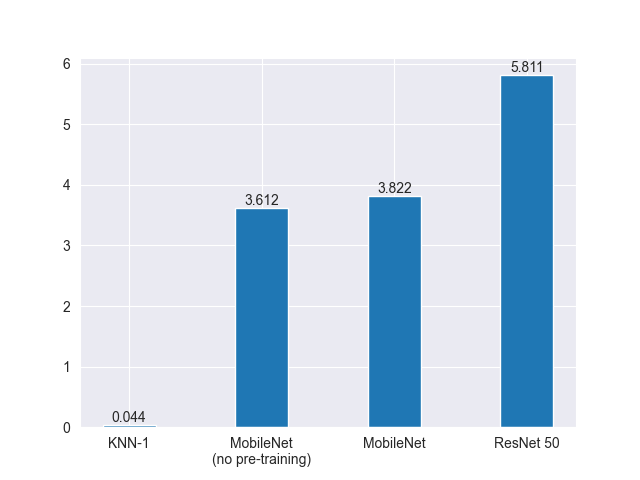
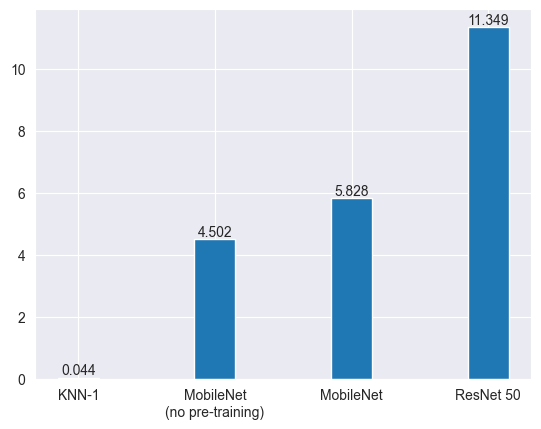
improve images, add 3rd set of bars

diff --git a/report/chapters/results.tex b/report/chapters/results.tex
@@ -294,7 +294,7 @@ the general principle behind it is likely to be understood even by a non-technic
 method is relatively straightforward and relies on simple observations of the beans.
 Using a highly optimised algorithm such as the one implemented in Scikit-learn can also dramatically reduce the resources
 needed for a single prediction, even though the scaling potential of this classifier is slightly lower due to the need to
-compare each incoming image to the entire dataset.
+compare each incoming image to the entire dataset, which could impact prediction times as more data is gathered.
 
 Switching to a simple neural network architecture results in a much more viable model: with the MobileNet architecture
 being the best performer in that category, the precision and recall scores for the ''Normal`` class could potentially allow it
@@ -304,8 +304,6 @@ making it highly useful as, for example, a first-stage sorter before a second, m
 needed to sort a batch of beans.
 Despite those good results, the performance on underrepresented classes is still relatively low, limiting the model's
 potential in producing statistics of the occurrences of various defects.
-Furthermore, the neural network approach is likely to scale much better, as the time per calculation is lower than that of
-the KNN classifiers and does not require repeated comparisons.
 
 Finally, transfer learning produced the most versatile and high-performing models, with the ResNet and MobileNet achieving
 quite similar results despite their significant size difference.
@@ -318,7 +316,6 @@ to achieve the peak result.
 Overall, the quick training time and high performance, especially on larger classes, suggest a great potential of this approach
 on a larger dataset showcasing more examples of rarer defects.
 
-%TODO compare classification time
 
 
 
